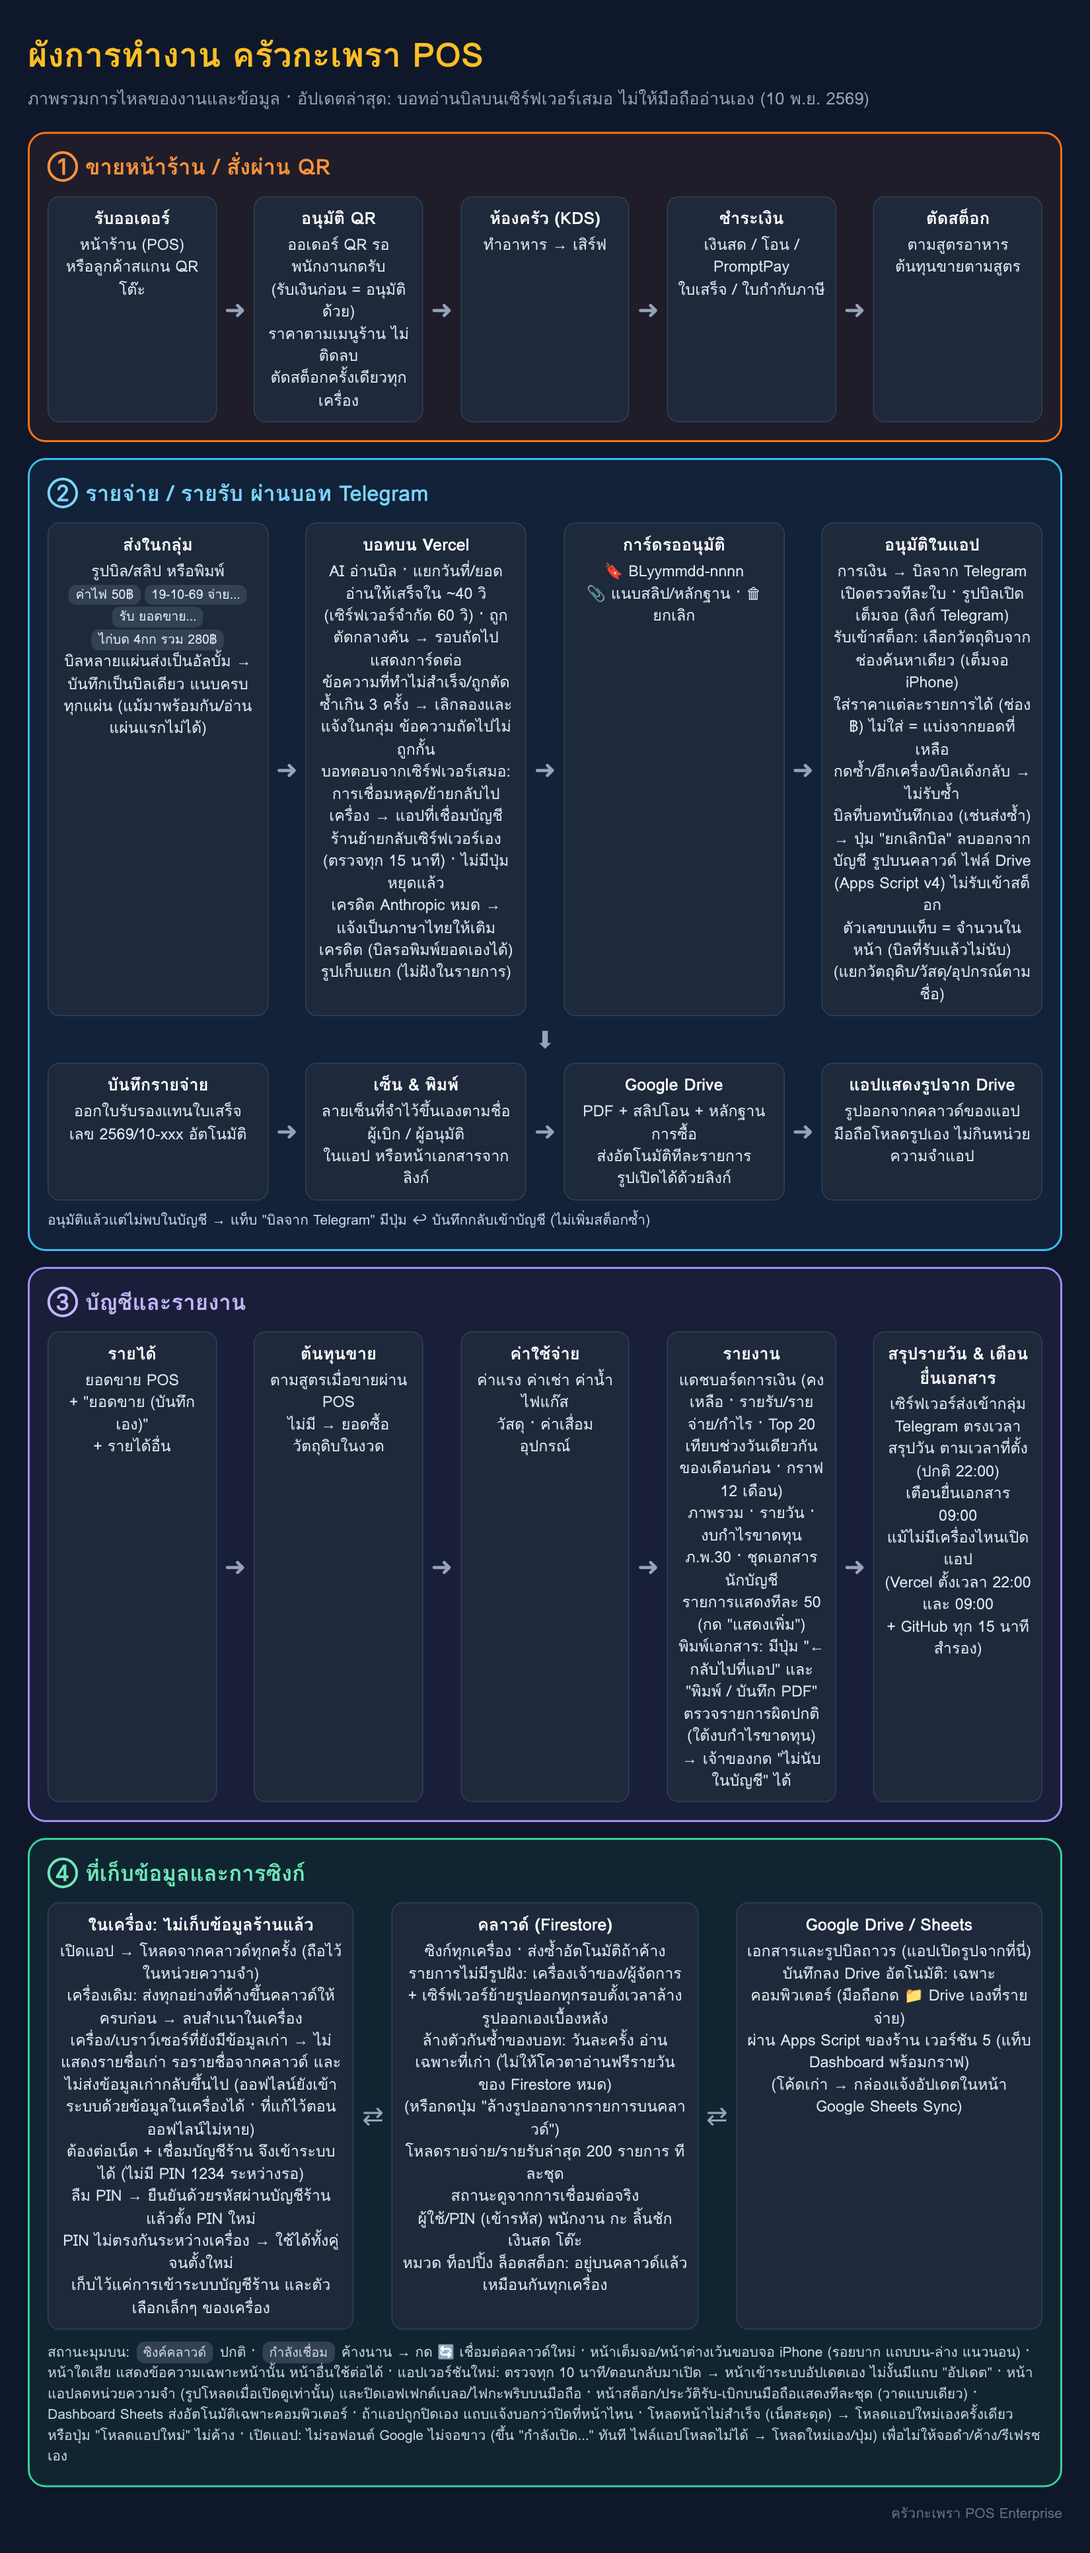
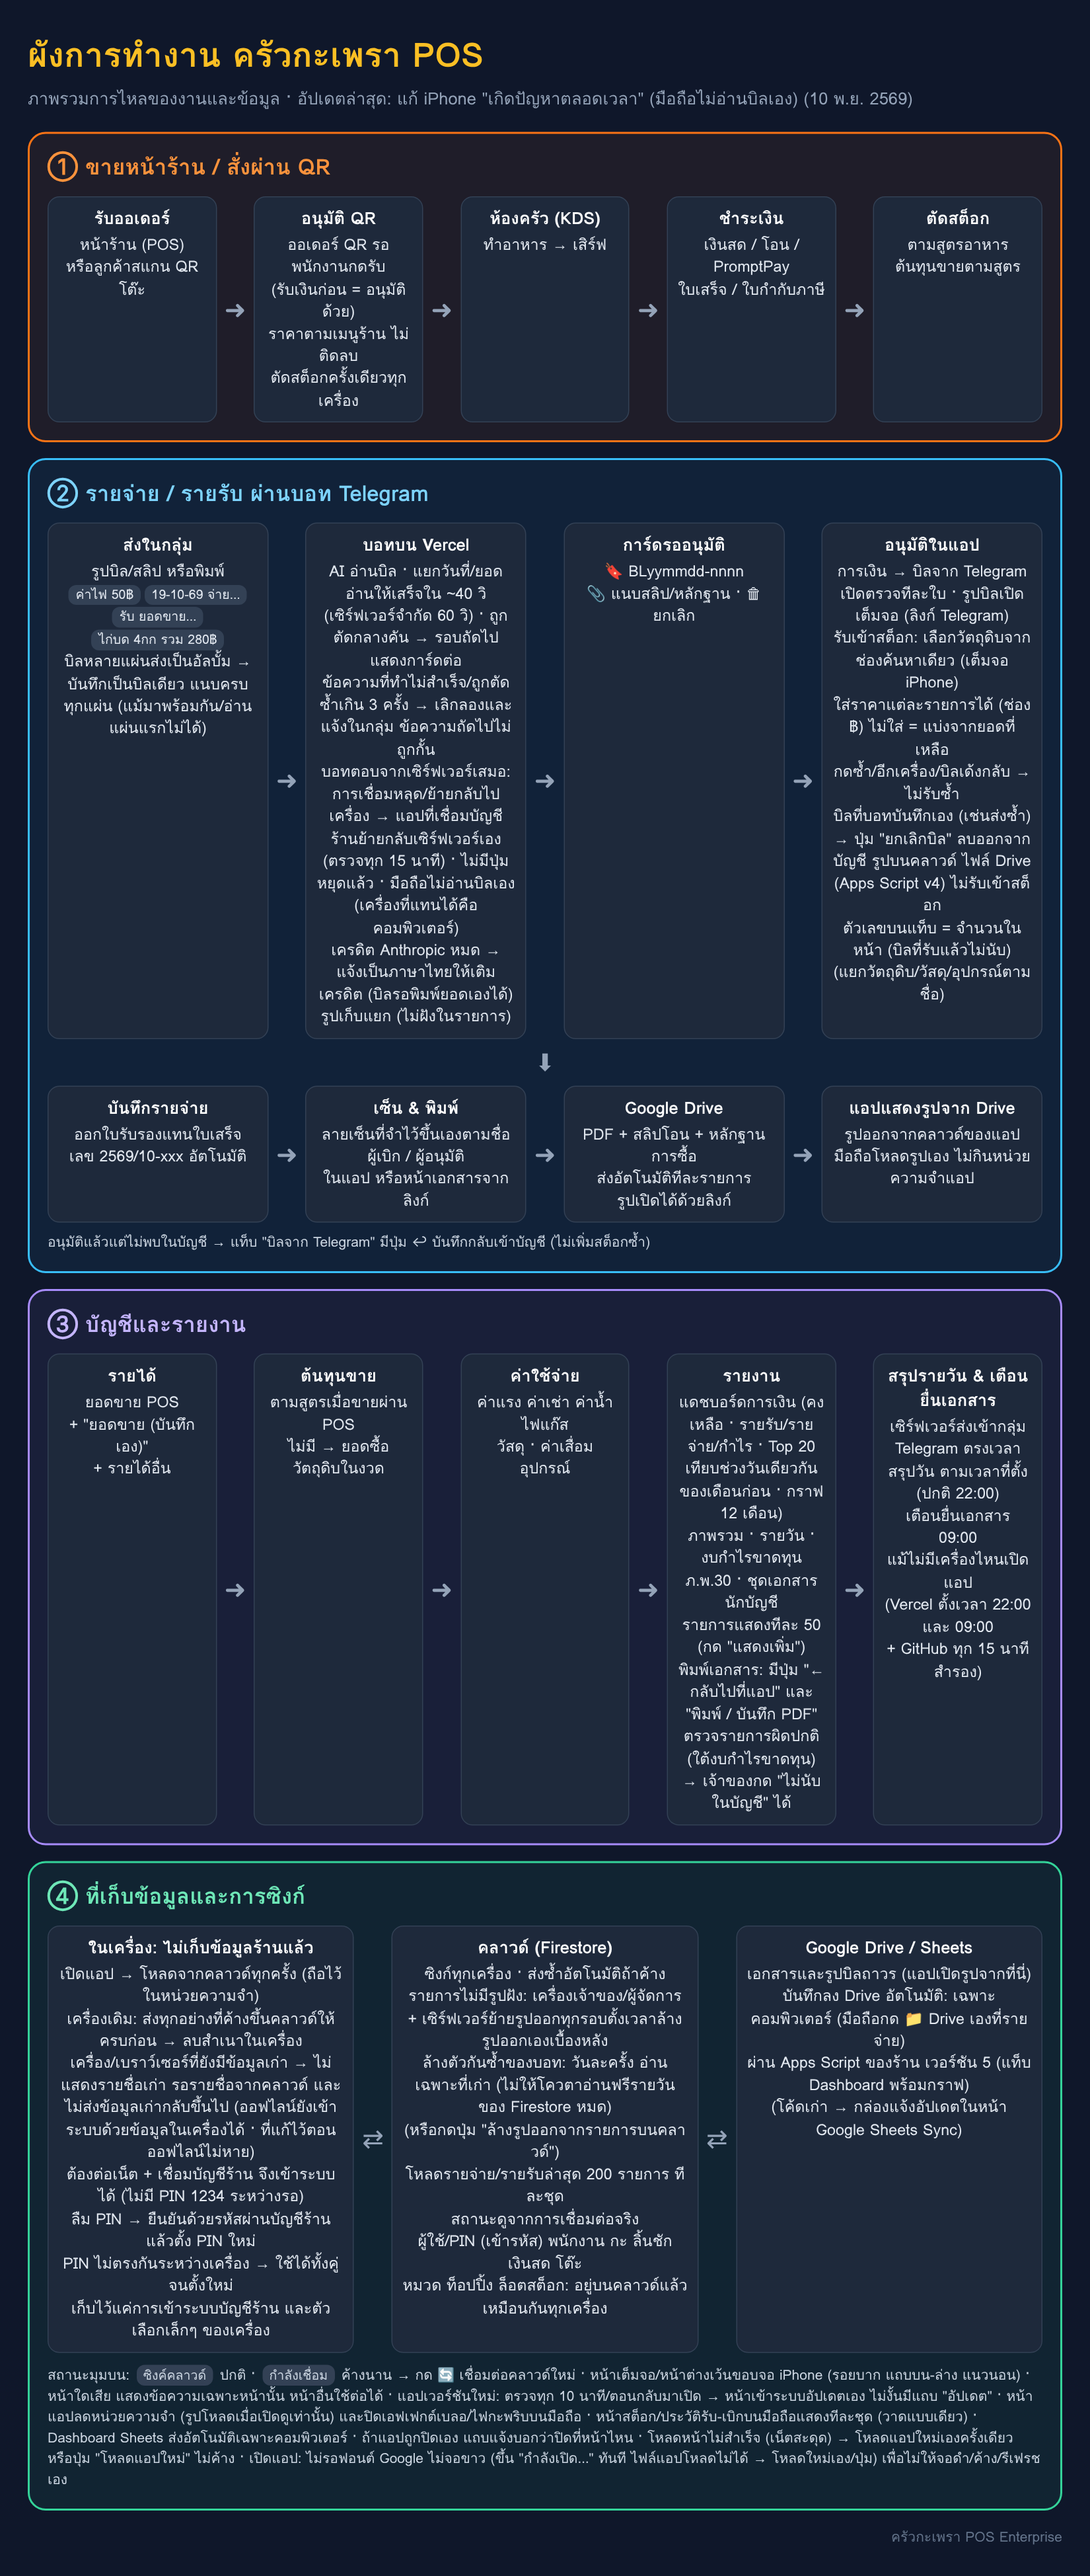
Phones never read bills themselves: stop the crash loop
Safari showed "a problem repeatedly occurred": with the bot back on the
device, a phone read the waiting bill photo as soon as the app opened
(download, shrink, AI), ran out of memory and closed; the update was not yet
confirmed, so every opening read the same photo again.

- No polling on a phone, nor in a run right after the phone closed the app.
- The device that puts the bot back on the server does it after 3 s (was 20).

Claude-Session: https://claude.ai/code/session_01Gq3UvYW4wv3hsVCXoh5wxy

diff --git a/docs/workflow/flow.html b/docs/workflow/flow.html
@@ -17,7 +17,7 @@ h1{margin:0 0 4px;font-size:34px;color:#fbbf24}.sub{color:#94a3b8;font-size:17px
 .foot{color:#64748b;font-size:14px;margin-top:6px;text-align:right}
 </style></head><body>
 <h1>ผังการทำงาน ครัวกะเพรา POS</h1>
-<div class="sub">ภาพรวมการไหลของงานและข้อมูล · อัปเดตล่าสุด: บอทอ่านบิลบนเซิร์ฟเวอร์เสมอ ไม่ให้มือถืออ่านเอง (10 พ.ย. 2569)</div>
+<div class="sub">ภาพรวมการไหลของงานและข้อมูล · อัปเดตล่าสุด: แก้ iPhone "เกิดปัญหาตลอดเวลา" (มือถือไม่อ่านบิลเอง) (10 พ.ย. 2569)</div>
 
 <div class="lane pos"><h2>① ขายหน้าร้าน / สั่งผ่าน QR</h2>
 <div class="row">
@@ -31,7 +31,7 @@ h1{margin:0 0 4px;font-size:34px;color:#fbbf24}.sub{color:#94a3b8;font-size:17px
 <div class="lane tg"><h2>② รายจ่าย / รายรับ ผ่านบอท Telegram</h2>
 <div class="row">
 <div class="box"><b>ส่งในกลุ่ม</b>รูปบิล/สลิป หรือพิมพ์<br><span class="tag">ค่าไฟ 50฿</span><span class="tag">19-10-69 จ่าย…</span><span class="tag">รับ ยอดขาย…</span><span class="tag">ไก่บด 4กก รวม 280฿</span><br>บิลหลายแผ่นส่งเป็นอัลบั้ม → บันทึกเป็นบิลเดียว แนบครบทุกแผ่น (แม้มาพร้อมกัน/อ่านแผ่นแรกไม่ได้)</div><div class="ar">➜</div>
-<div class="box"><b>บอทบน Vercel</b>AI อ่านบิล · แยกวันที่/ยอด<br>อ่านให้เสร็จใน ~40 วิ (เซิร์ฟเวอร์จำกัด 60 วิ) · ถูกตัดกลางคัน → รอบถัดไปแสดงการ์ดต่อ<br>ข้อความที่ทำไม่สำเร็จ/ถูกตัดซ้ำเกิน 3 ครั้ง → เลิกลองและแจ้งในกลุ่ม ข้อความถัดไปไม่ถูกกั้น<br>บอทตอบจากเซิร์ฟเวอร์เสมอ: การเชื่อมหลุด/ย้ายกลับไปเครื่อง → แอปที่เชื่อมบัญชีร้านย้ายกลับเซิร์ฟเวอร์เอง (ตรวจทุก 15 นาที) · ไม่มีปุ่มหยุดแล้ว<br>เครดิต Anthropic หมด → แจ้งเป็นภาษาไทยให้เติมเครดิต (บิลรอพิมพ์ยอดเองได้)<br>รูปเก็บแยก (ไม่ฝังในรายการ)</div><div class="ar">➜</div>
+<div class="box"><b>บอทบน Vercel</b>AI อ่านบิล · แยกวันที่/ยอด<br>อ่านให้เสร็จใน ~40 วิ (เซิร์ฟเวอร์จำกัด 60 วิ) · ถูกตัดกลางคัน → รอบถัดไปแสดงการ์ดต่อ<br>ข้อความที่ทำไม่สำเร็จ/ถูกตัดซ้ำเกิน 3 ครั้ง → เลิกลองและแจ้งในกลุ่ม ข้อความถัดไปไม่ถูกกั้น<br>บอทตอบจากเซิร์ฟเวอร์เสมอ: การเชื่อมหลุด/ย้ายกลับไปเครื่อง → แอปที่เชื่อมบัญชีร้านย้ายกลับเซิร์ฟเวอร์เอง (ตรวจทุก 15 นาที) · ไม่มีปุ่มหยุดแล้ว · มือถือไม่อ่านบิลเอง (เครื่องที่แทนได้คือคอมพิวเตอร์)<br>เครดิต Anthropic หมด → แจ้งเป็นภาษาไทยให้เติมเครดิต (บิลรอพิมพ์ยอดเองได้)<br>รูปเก็บแยก (ไม่ฝังในรายการ)</div><div class="ar">➜</div>
 <div class="box"><b>การ์ดรออนุมัติ</b>🔖 BLyymmdd-nnnn<br>📎 แนบสลิป/หลักฐาน · 🗑 ยกเลิก</div><div class="ar">➜</div>
 <div class="box"><b>อนุมัติในแอป</b>การเงิน → บิลจาก Telegram<br>เปิดตรวจทีละใบ · รูปบิลเปิดเต็มจอ (ลิงก์ Telegram)<br>รับเข้าสต็อก: เลือกวัตถุดิบจากช่องค้นหาเดียว (เต็มจอ iPhone)<br>ใส่ราคาแต่ละรายการได้ (ช่อง ฿) ไม่ใส่ = แบ่งจากยอดที่เหลือ<br>กดซ้ำ/อีกเครื่อง/บิลเด้งกลับ → ไม่รับซ้ำ<br>บิลที่บอทบันทึกเอง (เช่นส่งซ้ำ) → ปุ่ม "ยกเลิกบิล" ลบออกจากบัญชี รูปบนคลาวด์ ไฟล์ Drive (Apps Script v4) ไม่รับเข้าสต็อก<br>ตัวเลขบนแท็บ = จำนวนในหน้า (บิลที่รับแล้วไม่นับ)<br>(แยกวัตถุดิบ/วัสดุ/อุปกรณ์ตามชื่อ)</div>
 </div>

diff --git a/src/components/telegram/TelegramInboxPoller.tsx b/src/components/telegram/TelegramInboxPoller.tsx
@@ -7,6 +7,8 @@ import { scanReceiptImage, vercelBase } from '../../services/receiptScan';
 import { driveEnabled, hasExpenseDocs, releaseCloudPictures, saveExpenseToDrive } from '../../services/expenseDrive';
 import { isFirebaseAvailable, mergeBranchDoc, shopAccountRefreshToken, subscribeToBranchDoc } from '../../services/firebaseService';
 import { activateServerBot } from '../../services/telegramServer';
+import { isPhoneLike } from '../../utils/device';
+import { startupCrashes } from '../../utils/bootGuard';
 import { BotContext, BotStore, handleBotUpdate } from '../../services/botEngine';
 import {
   baht,
@@ -29,6 +31,8 @@ import { sellerInfo } from '../../utils/seller';
 import { documentHtml } from '../../utils/staffDocs';
 import { expenseDocName, expenseDocPages } from '../../utils/substituteReceipt';
 import { resolveRecordImages } from '../../services/imageStore';
+
+const PHONE = isPhoneLike();
 
 /** Telegram holds the request open until something arrives, so replies feel instant */
 const LONG_POLL_S = 25;
@@ -82,7 +86,11 @@ export const TelegramInboxPoller = () => {
       setServerConfig(data);
     });
   }, [branchId]);
-  const enabled = enabledHere && onServer === false;
+  // Never on a phone, nor right after the phone closed the app: reading a bill photo here (download,
+  // shrink, AI) ran iPhones out of memory, and as the update was not confirmed before that, every
+  // opening read the same photo again and the phone closed the page again and again. The bot
+  // answers from the server; a computer can stand in
+  const enabled = enabledHere && onServer === false && !PHONE && startupCrashes() === 0;
 
   // The bot answers from the server (Vercel). Telegram no longer delivering there (its webhook
   // dropped, or the bot moved back to a device) left the group to a phone reading bills itself:
@@ -114,7 +122,7 @@ export const TelegramInboxPoller = () => {
         console.warn('[Telegram bot] reconnecting the server bot failed', e);
       }
     };
-    const first = setTimeout(() => void heal(), 20_000);
+    const first = setTimeout(() => void heal(), 3_000);
     const every = setInterval(() => void heal(), 15 * 60_000);
     return () => {
       alive = false;
